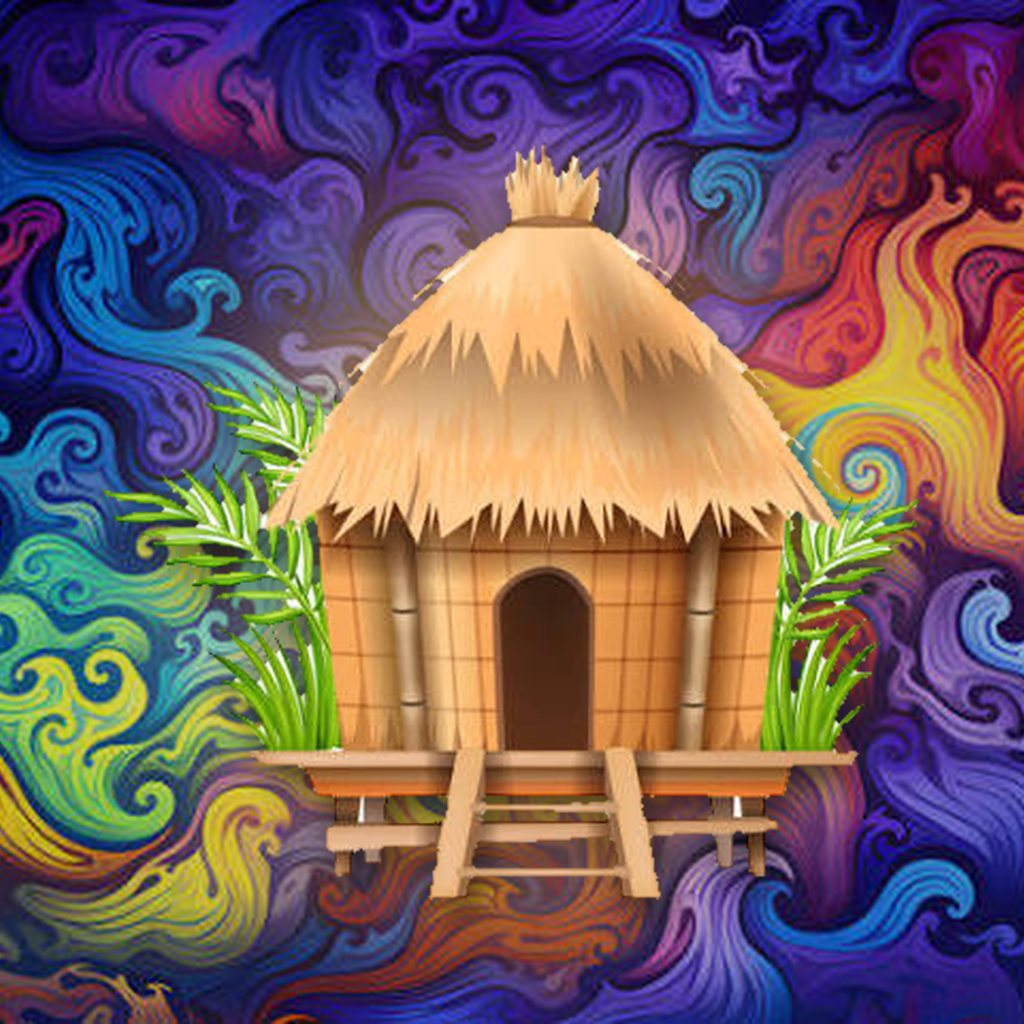
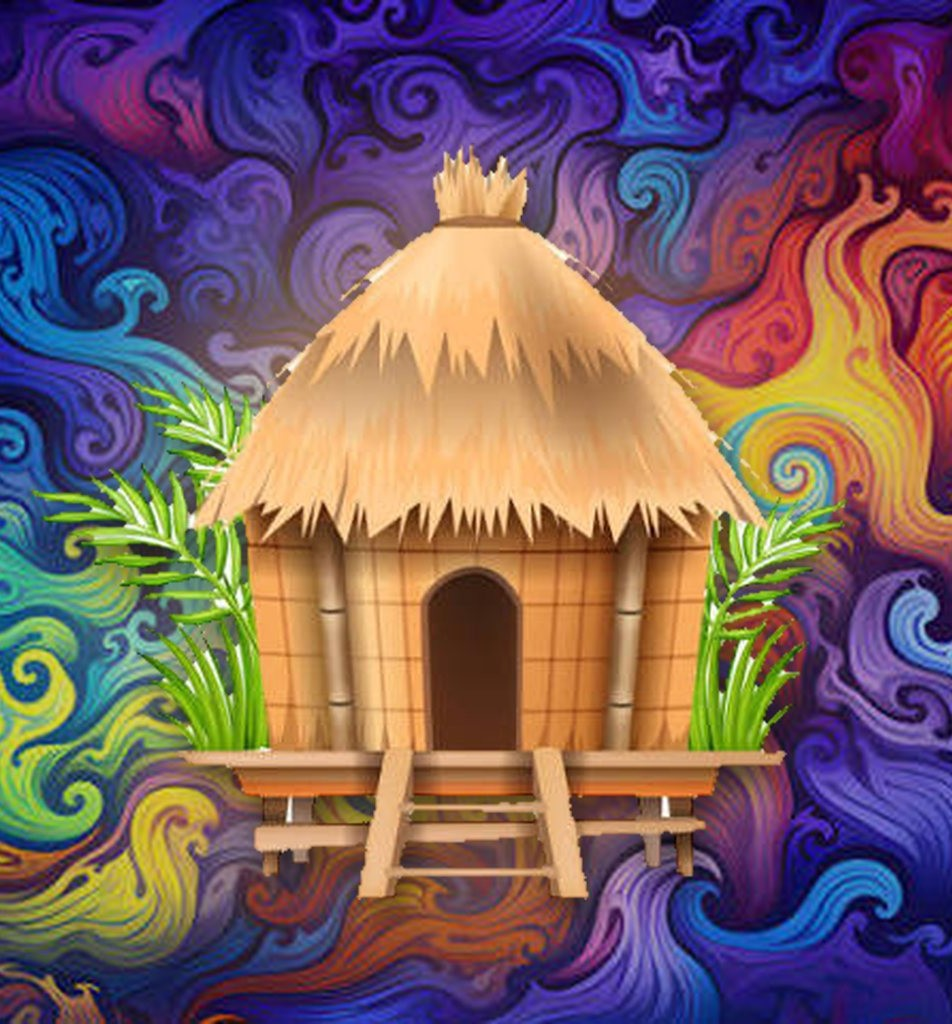
Night cost: driver MPG, gas price and food, flip cards to see the breakdown; drop venue dropdown; center the hut
- Carpool bar gets Driver MPG, $/gal (default 5.85, AAA OC avg early Nov) and a food level
- Double-tap any card (or tap the 🌙 pill) to flip it to a tickets/gas/parking/food breakdown
- Venue dropdown removed; map pins now show a removable venue chip
- Stats line shows the real venue count (132) instead of repeating the show count
- Header art re-cropped so the hut sits in the center

Claude-Session: https://claude.ai/code/session_01YDXdcZbPYMn1uhhQ8kbn5d

diff --git a/index.html b/index.html
@@ -120,7 +120,7 @@ select{min-width:0;max-width:100%;text-overflow:ellipsis}
 .links{display:flex;flex-wrap:wrap;gap:8px;margin-top:2px}
 .links a{font:600 13px var(--body);text-decoration:none;padding:6px 12px;border-radius:7px;border:1px solid var(--line);color:var(--ink)}
 /* Show Shack header: hut art fills the card, gradient title above the roof */
-header{background:#1a0f33 url(header.jpg) center 96%/auto 106% no-repeat;aspect-ratio:1/1.25;max-height:640px;padding:18px 14px 14px;align-items:stretch;justify-content:space-between;gap:0;overflow:hidden;position:relative}
+header{background:#1a0f33 url(header.jpg?v=2) center 96%/auto 106% no-repeat;aspect-ratio:1/1.25;max-height:640px;padding:18px 14px 14px;align-items:stretch;justify-content:space-between;gap:0;overflow:hidden;position:relative}
 header::before{content:"";position:absolute;inset:0 0 auto 0;height:34%;background:linear-gradient(180deg,rgba(14,8,32,.55),rgba(14,8,32,0));pointer-events:none}
 header h1.shack-title{position:relative;background:linear-gradient(90deg,#FFE66D 0%,#FFB347 22%,#FF6FA5 48%,#D08CFF 72%,#6FF0FF 100%);-webkit-background-clip:text;background-clip:text;color:transparent;-webkit-text-stroke:1.6px #170b2e;paint-order:stroke fill;filter:drop-shadow(0 3px 0 #170b2e) drop-shadow(0 0 14px rgba(10,4,24,.7));padding:0;border-radius:0;text-align:center;font-size:clamp(26px,8.4vw,58px);line-height:1;letter-spacing:1.5px;max-width:100%;padding:0 .12em;white-space:nowrap;text-wrap:nowrap;align-self:center}
 header .sub{position:relative;background:rgba(18,10,38,.74);-webkit-backdrop-filter:blur(8px);backdrop-filter:blur(8px);color:#ddd6ee;border:1px solid rgba(255,255,255,.14);border-radius:12px;padding:8px 12px;margin-top:auto}
@@ -141,7 +141,7 @@ h1 .logo{height:1.05em;width:1.05em;border-radius:22%;vertical-align:-0.12em;mar
 .links a.tix{background:var(--ink);color:var(--bg);border-color:var(--ink)}
 .sharebtn{font:600 13px var(--body);padding:6px 12px;border-radius:7px;border:1px solid var(--line);background:transparent;color:var(--ink);cursor:pointer}
 .sub .sharebtn{padding:3px 10px;font-size:12px}
-.ev.hl{outline:3px solid var(--bee);outline-offset:2px;transition:outline-color 2s}
+.card.hl .face{outline:3px solid var(--bee);outline-offset:2px;transition:outline-color 2s}
 .copybox{position:fixed;left:12px;right:12px;bottom:calc(12px + env(safe-area-inset-bottom,0px));z-index:50;background:var(--surface);border:1px solid var(--line);border-radius:10px;padding:10px;box-shadow:0 6px 24px rgba(0,0,0,.18)}
 .copybox textarea{width:100%;min-height:70px;font:13px var(--body);box-sizing:border-box}
 .copybox button{margin-top:6px}
@@ -245,6 +245,34 @@ h1 .logo{height:1.05em;width:1.05em;border-radius:22%;vertical-align:-0.12em;mar
 .bar .v{text-align:right;font-family:var(--mono);font-variant-numeric:tabular-nums;font-size:12.5px;white-space:nowrap}
 .bar .k{overflow:hidden;text-overflow:ellipsis;white-space:nowrap}
 @media (prefers-color-scheme:dark){:root:not([data-theme="light"]) .map .sea{fill:hsl(210 35% 22%)}:root:not([data-theme="light"]) .map .land{fill:hsl(230 12% 15%);stroke:hsl(210 25% 35%)}:root:not([data-theme="light"]) .map .city{fill:hsl(220 10% 70%)}:root:not([data-theme="light"]) .badge.down{color:hsl(150 60% 65%)}:root:not([data-theme="light"]) .badge.up{color:hsl(10 80% 70%)}:root:not([data-theme="light"]) .badge.sale{color:hsl(45 90% 70%)}}
+/* ---- carpool cost bar ---- */
+.costbar{flex-basis:100%;display:flex;flex-wrap:wrap;gap:8px 12px;align-items:center;padding-top:8px;margin-top:2px;border-top:1px dashed var(--line)}
+.cf{display:flex;align-items:center;gap:6px}
+.cf input{width:64px;font:500 16px var(--mono);background:var(--chip);color:var(--ink);border:0;border-radius:8px;padding:5px 8px;font-variant-numeric:tabular-nums}
+.cf select{font-size:14px}
+/* ---- flip cards ---- */
+.card{perspective:1400px;-webkit-tap-highlight-color:transparent}
+.flip{display:grid;transform-style:preserve-3d;-webkit-transform-style:preserve-3d;transition:transform .55s cubic-bezier(.2,.7,.3,1)}
+.card.flipped .flip{transform:rotateY(180deg)}
+.face{grid-area:1/1;-webkit-backface-visibility:hidden;backface-visibility:hidden;transform:rotateY(0deg)}
+.face.back{transform:rotateY(180deg);display:flex;flex-direction:column;gap:8px;border-color:var(--accent);background:var(--surface)}
+.card.flipped .front,.card:not(.flipped) .back{pointer-events:none}
+@media (prefers-reduced-motion:reduce){.flip{transition:none}}
+.facts .night{font:600 12.5px var(--mono);color:var(--ink);background:var(--chip);border:0;border-radius:999px;padding:2px 9px;cursor:pointer}
+.back .bh{display:flex;justify-content:space-between;align-items:center}
+.back .flipbtn{border:1px solid var(--line);background:transparent;color:var(--ink);border-radius:999px;width:32px;height:32px;font-size:16px;cursor:pointer}
+.back h3{font-size:15px;margin:0;color:var(--muted);font-weight:600}
+.nlist{display:flex;flex-direction:column}
+.nl{display:grid;grid-template-columns:auto 1fr auto;gap:2px 10px;align-items:baseline;padding:7px 0;border-bottom:1px dashed var(--line)}
+.nk{font-weight:600;font-size:14px;white-space:nowrap}
+.nh{font-family:var(--mono);font-size:11px;color:var(--muted);min-width:0;overflow-wrap:anywhere}
+.nv{font:600 14px var(--mono);font-variant-numeric:tabular-nums;text-align:right}
+.ntot{display:flex;align-items:baseline;gap:10px;flex-wrap:wrap;padding-top:2px}
+.ntot span:first-child{font-family:var(--mono);font-size:11px;letter-spacing:.12em;text-transform:uppercase;color:var(--muted)}
+.ntot b{font:900 30px var(--display);color:var(--accent)}
+.ntot .each{font:600 14px var(--mono);color:var(--drive)}
+.nfoot{margin:0;font-size:12px;color:var(--muted)}
+.nfoot a{color:var(--accent);font-weight:600;text-decoration:none}
 </style>
 
 <div class="wrap">
@@ -264,6 +292,11 @@ h1 .logo{height:1.05em;width:1.05em;border-radius:22%;vertical-align:-0.12em;mar
       <button type="button" class="chip" id="startEdit">Set start point</button>
       <label class="range" for="carSel"><span class="label">🚗 Carpool</span>
         <select id="carSel"><option value="1">Just me</option><option value="2">2 people</option><option value="3">3 people</option><option value="4">4 people</option><option value="5">5 people</option></select></label>
+      <div class="costbar">
+        <label class="cf" for="mpgIn"><span class="label">⛽ Driver MPG</span><input id="mpgIn" type="number" inputmode="decimal" min="5" max="150" step="1"></label>
+        <label class="cf" for="gasIn"><span class="label">$/gal</span><input id="gasIn" type="number" inputmode="decimal" min="1" max="15" step="0.05"></label>
+        <label class="cf" for="foodSel"><span class="label">🍽 Food</span><select id="foodSel"><option value="0">Skip</option><option value="15">Quick bite ~$15</option><option value="30">Sit-down ~$30</option><option value="60">Nice dinner ~$60</option></select></label>
+      </div>
     </div>
     <form class="start-form" id="startForm" hidden>
       <label for="startAddr" class="label">Your address or city</label>
@@ -314,8 +347,7 @@ h1 .logo{height:1.05em;width:1.05em;border-radius:22%;vertical-align:-0.12em;mar
     <div class="row" id="flagRow"><span class="label">Filter</span>
       <label class="range" for="sortBy"><span class="label">Sort</span>
         <select id="sortBy"><option value="date">Soonest</option><option value="drive">Closest</option><option value="price">Cheapest</option></select></label>
-      <label class="range" for="venueSel"><span class="label">Venue</span>
-        <select id="venueSel"><option value="all">All venues</option></select></label>
+      <button type="button" class="chip" id="venueChip" aria-pressed="true" hidden></button>
     </div>
   </div>
 
@@ -355,15 +387,15 @@ function nextOccurrence(r){
   const c=new Date(t);c.setDate(t.getDate()+((r.weekday-t.getDay()+7)%7));return ymd(c);
 }
 const GENRES = [["all","All"],["electronic","Electronic / house"],["hiphop","Hip-hop / R&B"],["indie","Indie / rock"],["reggae","Reggae / island"],["latin","Latin"],["pop","Pop / other"]];
-const state = {kind:"all", genre:"all", venue:"all", maxDrive:180, sort:"date", events:[], picks:[], stars:new Set(), loaded:false};
+const state = {flipped:new Set(), kind:"all", genre:"all", venue:"all", maxDrive:180, sort:"date", events:[], picks:[], stars:new Set(), loaded:false};
 try{(JSON.parse(localStorage.getItem("radar-stars")||"[]")).forEach(k=>state.stars.add(String(k)));}catch(e){}
 let starRef=null, starBusy=false, starAgain=false, starT, starCount=0;
 function skey(e){return (e.added?"p:":"e:")+e.id;}
 function saveStars(){try{localStorage.setItem("radar-stars",JSON.stringify([...state.stars]));}catch(e){} clearTimeout(starT); starT=setTimeout(flushStars,500);}
 async function flushStars(){if(!starRef)return; if(starBusy){starAgain=true;return;} starBusy=true; try{await starRef.set({ids:[...state.stars]});}catch(e){if(e&&e.code==="invalid_argument")starRef=null;} starBusy=false; if(starAgain){starAgain=false;flushStars();}}
 function updateStarChip(){const c=document.getElementById("kindRow-starred");if(c)c.textContent="★ Starred"+(starCount>0?" · "+starCount:"");}
-try{const s=JSON.parse(localStorage.getItem("radar-prefs")||"{}");Object.assign(state,{kind:s.kind||"all",genre:s.genre||"all",maxDrive:s.maxDrive||180,sort:s.sort||"date",venue:s.venue||"all",hideTBA:!!s.hideTBA,when:s.when||"any",flags:s.flags||{},car:s.car||1});}catch(e){}
-function savePrefs(){try{localStorage.setItem("radar-prefs",JSON.stringify({kind:state.kind,genre:state.genre,maxDrive:state.maxDrive,sort:state.sort,venue:state.venue,hideTBA:!!state.hideTBA,when:state.when,flags:state.flags,car:state.car}));}catch(e){}}
+try{const s=JSON.parse(localStorage.getItem("radar-prefs")||"{}");Object.assign(state,{kind:s.kind||"all",genre:s.genre||"all",maxDrive:s.maxDrive||180,sort:s.sort||"date",venue:s.venue||"all",hideTBA:!!s.hideTBA,when:s.when||"any",flags:s.flags||{},car:s.car||1,mpg:+s.mpg>0?+s.mpg:25,gas:+s.gas>0?+s.gas:5.85,food:s.food!=null?+s.food:30});}catch(e){}
+function savePrefs(){try{localStorage.setItem("radar-prefs",JSON.stringify({kind:state.kind,genre:state.genre,maxDrive:state.maxDrive,sort:state.sort,venue:state.venue,hideTBA:!!state.hideTBA,when:state.when,flags:state.flags,car:state.car,mpg:state.mpg,gas:state.gas,food:state.food}));}catch(e){}}
 
 function driveEstimate(lat,lon){
   if(!origin||typeof origin.lat!=="number"||typeof lat!=="number"||typeof lon!=="number") return null;
@@ -404,8 +436,8 @@ md.oninput=()=>{state.maxDrive=+md.value;syncDrive();savePrefs();render();};
 const tc=document.getElementById("tbaChip"); tc.setAttribute("aria-pressed",String(!!state.hideTBA));
 tc.onclick=()=>{state.hideTBA=!state.hideTBA;tc.setAttribute("aria-pressed",String(state.hideTBA));savePrefs();render();};
 sb.onchange=()=>{state.sort=sb.value;savePrefs();render();};
-const vs=document.getElementById("venueSel");
-vs.onchange=()=>{state.venue=vs.value;savePrefs();render();};
+const vChip=document.getElementById("venueChip");
+vChip.onclick=()=>{state.venue="all";savePrefs();render();};
 const sq=document.getElementById("q"), sqc=document.getElementById("qClear"); let qT;
 function norm(s){return String(s||"").normalize("NFD").replace(/[̀-ͯ]/g,"").toLowerCase();}
 function setQ(v){state.q=norm(v.trim());sqc.hidden=!v;render();}
@@ -415,17 +447,12 @@ sqc.onclick=()=>{sq.value="";setQ("");sq.focus();};
 
 function venueKey(e){return (e.venue||"")+" · "+(e.city||"");}
 function buildVenues(upcoming){
-  const counts={};upcoming.forEach(e=>{const k=venueKey(e);counts[k]=(counts[k]||0)+1;});
-  const regionOf={};upcoming.forEach(e=>{regionOf[venueKey(e)]=region(e);});
-  if(state.venue!=="all"&&!counts[state.venue]) state.venue="all";
-  let opts='<option value="all">All venues ('+upcoming.length+')</option>';
-  for(const r of REGIONS){
-    const keys=Object.keys(counts).filter(k=>regionOf[k]===r).sort((a,b)=>a.localeCompare(b));
-    if(!keys.length)continue;
-    opts+=`<optgroup label="${esc(r)}">`+keys.map(k=>`<option value="${esc(k)}">${esc(k)} (${counts[k]})</option>`).join("")+'</optgroup>';
-  }
-  vs.innerHTML=opts;
-  vs.value=state.venue;
+  const keys=new Set(upcoming.map(venueKey));
+  if(state.venue!=="all"&&!keys.has(state.venue)) state.venue="all";
+  vChip.hidden=state.venue==="all";
+  vChip.textContent=state.venue==="all"?"":"📍 "+state.venue.split(" · ")[0]+"  ✕";
+  vChip.setAttribute("aria-label","Showing one venue: "+state.venue+". Tap to show all venues");
+  return keys.size;
 }
 
 const EST=[
@@ -479,10 +506,18 @@ function tier(e){const v=String(e.venue||"");
   if(e.kind==="club"||EST[6][0].test(v))return "Mid-size (1–3k)";
   return "Other";}
 const PARK={"Festival":40,"Arena / stadium":35,"Amphitheater":25,"Theater / arts hall":20,"Mid-size (1–3k)":15,"Comedy club":10,"Small / DIY":5,"Other":15};
-const GAS=5.00, MPG=25;
-function nightCost(e,pi){if(!e._drive||pi.sold||pi.none||pi.lo==null)return null;
-  const gas=e._drive.miles*2/MPG*GAS, park=e.kind==="openmic"?0:(PARK[tier(e)]??15), n=state.car||1;
-  const tix=pi.lo; return {total:Math.round(tix+gas+park), each:Math.round(tix+(gas+park)/n), n};}
+// Gas default = AAA Orange County regular average, early Nov 2026 (~$5.83). Food = typical SoCal per-person spend incl. tax & tip.
+function nightCost(e,pi){
+  const n=state.car||1, mpg=state.mpg||25, gal=state.gas||5.85, food=state.food??30;
+  const tixEach = pi.sold||pi.none||pi.lo==null ? null : pi.lo;
+  const miles = e._drive ? e._drive.miles*2 : null;
+  const gas = miles!=null ? miles/mpg*gal : null;
+  const park = e._drive ? (e.kind==="openmic"?0:(PARK[tier(e)]??15)) : null;
+  const eat = food*n;
+  const total = (tixEach??0)*n + (gas??0) + (park??0) + eat;
+  return {n,mpg,gal,food,tixEach,tixEst:!!pi.est,miles,gas,park,eat,total:Math.round(total),each:Math.round(total/n),
+    partial: tixEach==null || gas==null};
+}
 function ageOf(e){if(e.ages)return e.ages;const t=[e.title,e.artists,e.note,e.priceNote].join(" ");
   if(/21\s*\+/.test(t))return "21+";if(/18\s*\+/.test(t))return "18+";if(/all[- ]ages/i.test(t))return "all";return null;}
 function likelyAllAges(e){const a=ageOf(e);if(a)return a==="all";return e.kind==="theater"||e.kind==="openmic"||CONS.has(e.kind)||(e.kind==="concert"&&/bowl|amphitheat|arena|center|forum|theat|hall|civic|stadium|dome/i.test(e.venue||"")&&!/house of blues|belly up|coach house|casbah|alex|viper|troubadour|whisky|pappy/i.test(e.venue||""));}
@@ -517,7 +552,7 @@ function render(){
     .filter(e=>e.start&&(e.end||e.start)>=today);
   const upcoming=evs.length;
   starCount=evs.filter(e=>state.stars.has(skey(e))).length; updateStarChip();
-  buildVenues(evs);
+  const venueCount=buildVenues(evs);
   const qw = state.q ? state.q.split(/\s+/) : null;
   evs=evs.filter(e=>!qw||(h=>qw.every(w=>h.includes(w)))(norm([e.title,e.artists,e.venue,e.city].join(" "))))
     .filter(e=>state.venue==="all"||venueKey(e)===state.venue)
@@ -536,7 +571,7 @@ function render(){
   evs.sort((a,b)=> state.sort==="drive" ? ((a._drive?.mins??1e9)-(b._drive?.mins??1e9)) || a.start.localeCompare(b.start)
      : state.sort==="price" ? (price(a)-price(b)) || a.start.localeCompare(b.start)
      : a.start.localeCompare(b.start) || (a._drive?.mins??1e9)-(b._drive?.mins??1e9));
-  document.getElementById("count").textContent = evs.length+" of "+upcoming+" upcoming";
+  document.getElementById("count").textContent = evs.length+" of "+upcoming+" shows · "+venueCount+" venues";
   updateAlertBar();
   if(state.view==="map"){renderMap(evs);return;}
   if(state.view==="ins"){renderInsights();return;}
@@ -571,7 +606,7 @@ function render(){
     else priceHtml=`<span class="price">From ${$r(pi.lo)}</span><span class="pn">cheapest seat</span>`;
     if(!pi.est&&!pi.sold&&!pi.free&&!pi.none&&e.priceAsOf) priceHtml=priceHtml.replace(/<\/span>$/,` · checked ${fmtShort(e.priceAsOf)}</span>`);
     const nc=nightCost(e,pi), lb=leaveBy(e);
-    const nightHtml = nc ? `<span class="night">🌙 Night ≈ $${nc.total}${nc.n>1?` · $${nc.each} each w/ ${nc.n}`:""}</span>` : "";
+    const nightHtml = `<button type="button" class="night" data-flip="1">🌙 Night ≈ $${nc.n>1?nc.each+" each":nc.total}${nc.partial?"+":""} ↻</button>`;
     const leaveHtml = lb ? `<span class="leave">Leave by ${lb}</span>` : "";
     const al = alertOf(e).map(a=>`<span class="badge ${a.c}">${a.t}</span>`).join("");
     const ag = ageOf(e); const extraTags = (isSmall(e)?'<span class="tag local">🏠 Small &amp; local</span>':"")+(ag?`<span class="tag age">${ag==="all"?"All ages":ag}</span>`:"")+(transitOf(e)?`<span class="tag transit">🌱 ${transitOf(e)}</span>`:"");
@@ -595,7 +630,8 @@ function render(){
     const lc=(pv!=null&&!pi.sold)?band(pv,P_STEPS):"transparent";
     const rc=e._drive?band(e._drive.mins,D_STEPS):"transparent";
     const canRm = isPin && (amOwner || (myUid && e.createdBy===myUid));
-    html+=`<article id="${hid(e)}" class="ev${isPin?" pick":""}" style="--lc:${lc};--rc:${rc}">
+    const fl=state.flipped.has(hid(e));
+    html+=`<article id="${hid(e)}" class="card${fl?" flipped":""}"><div class="flip"><div class="ev face front${isPin?" pick":""}" style="--lc:${lc};--rc:${rc}"${fl?' aria-hidden="true"':""}>
       <div class="stub"><span class="dow">${dow}</span><span class="day">${d.getDate()}</span><span class="mon">${mon}</span>${thru}</div>
       <div class="body">
         ${isPin?`<span class="who">＋ Luke's pick</span>`:""}
@@ -610,12 +646,32 @@ function render(){
         ${volHtml(e)}
         <div class="links">${tix?`<a class="tix" href="${esc(tix)}" target="_blank" rel="noopener">${tixLabel}</a>`:""}${listen}<a href="${maps}" target="_blank" rel="noopener">Directions</a>${e.start?`<a href="${esc(calLink(e))}" target="_blank" rel="noopener">📅 Calendar</a>`:""}<a href="${esc(eatLink(e))}" target="_blank" rel="noopener">🍜 Eat nearby</a><button type="button" class="share" data-share="${esc(skey(e))}">📤 Share</button>${canRm?`<button type="button" class="rm" data-rm="${esc(e.id)}">Remove</button>`:""}</div>
       </div>
-      <div class="sides"><div class="side l"><span class="sl">Price</span>${priceHtml}</div><div class="side r"><span class="sl">Drive</span>${drv}</div></div></article>`;
+      <div class="sides"><div class="side l"><span class="sl">Price</span>${priceHtml}</div><div class="side r"><span class="sl">Drive</span>${drv}</div></div></div>
+      ${backHtml(e,nc,fl)}</div></article>`;
   }
   list.innerHTML=html;
   jumpToHash();
   const sa=document.getElementById("spAgain"),sd=document.getElementById("spDone");
   if(sa)sa.onclick=surpriseMe; if(sd)sd.onclick=()=>{state.surprise=null;render();};
+}
+function backHtml(e,nc,fl){
+  const $=v=>"$"+Math.round(v), who=nc.n>1?`${nc.n} people`:"just you";
+  const line=(ic,k,how,v)=>`<div class="nl"><span class="nk">${ic} ${k}</span><span class="nh">${how}</span><span class="nv">${v}</span></div>`;
+  const tix = nc.tixEach==null ? line("🎟","Tickets","price not listed yet","?")
+    : line("🎟","Tickets",`${nc.tixEach===0?"free":(nc.tixEst?"≈":"")+$(nc.tixEach)}${nc.n>1?" × "+nc.n:""}${nc.tixEst?" · typical, not listed":""}`,$(nc.tixEach*nc.n));
+  const gas = nc.gas==null ? line("⛽","Gas","set a start point","?")
+    : line("⛽","Gas",`${nc.miles} mi round trip ÷ ${nc.mpg} mpg × $${nc.gal.toFixed(2)}`,$(nc.gas));
+  const park = nc.park==null ? line("🅿","Parking","set a start point","?")
+    : line("🅿","Parking",nc.park===0?"usually free":`typical for ${tier(e).toLowerCase()}`,$(nc.park));
+  const food = line("🍽","Food",nc.food?`${$(nc.food)} × ${nc.n} · typical SoCal spend`:"skipped",$(nc.eat));
+  return `<div class="ev face back"${fl?"":' aria-hidden="true"'}>
+    <div class="bh"><span class="sl">🌙 Night cost · ${who}</span><button type="button" class="flipbtn" data-flip="1" aria-label="Flip back">↩</button></div>
+    <h3>${esc(e.title)}</h3>
+    <div class="nlist">${tix}${gas}${park}${food}</div>
+    <div class="ntot"><span>Total${nc.partial?" so far":""}</span><b>${$(nc.total)}${nc.partial?"+":""}</b>${nc.n>1?`<span class="each">${$(nc.each)}${nc.partial?"+":""} each</span>`:""}</div>
+    <p class="nfoot">Estimates. Gas ${nc.gas!=null?"splits":"would split"} across the car; food & tickets are per person. Change MPG, gas price and food up top by Carpool. <a href="${esc(eatLink(e))}" target="_blank" rel="noopener">🍜 See food near the venue ↗</a></p>
+    <p class="nfoot">Double-tap the card to flip back.</p>
+  </div>`;
 }
 function surpriseMe(){
   state.surprise=null; state.view="list"; [vL,vM,vI].forEach(b=>b.setAttribute("aria-pressed",String(b===vL)));
@@ -634,11 +690,41 @@ function surpriseMe(){
   render();window.scrollTo({top:document.getElementById("viewBar").offsetTop-8,behavior:"smooth"});
 }
 
+/* ---- flip a card to its night-cost back: double-tap (or tap the 🌙 pill / ↩) ---- */
+function flipCard(card){if(!card)return;const on=!card.classList.contains("flipped");
+  card.classList.toggle("flipped",on);on?state.flipped.add(card.id):state.flipped.delete(card.id);
+  const f=card.querySelector(".front"),b=card.querySelector(".back");
+  if(f)f.setAttribute("aria-hidden",String(on)); if(b)b.setAttribute("aria-hidden",String(!on));
+  try{window.getSelection().removeAllRanges();}catch(e){}}
+const INTERACTIVE="a,button,select,input,summary,textarea,label";
+let lastTap={t:0,x:0,y:0,card:null}, lastFlipAt=0;
+const listEl=document.getElementById("list");
+listEl.addEventListener("click",ev=>{const b=ev.target.closest("[data-flip]");if(!b)return;flipCard(b.closest(".card"));lastFlipAt=Date.now();});
+listEl.addEventListener("pointerup",ev=>{
+  if(ev.pointerType==="mouse")return;
+  const card=ev.target.closest(".card"); if(!card||ev.target.closest(INTERACTIVE)){lastTap.t=0;return;}
+  const now=Date.now();
+  if(lastTap.card===card&&now-lastTap.t<350&&Math.hypot(ev.clientX-lastTap.x,ev.clientY-lastTap.y)<30){
+    lastTap.t=0;lastFlipAt=now;ev.preventDefault();flipCard(card);return;}
+  lastTap={t:now,x:ev.clientX,y:ev.clientY,card};
+});
+listEl.addEventListener("dblclick",ev=>{
+  if(Date.now()-lastFlipAt<600)return;
+  const card=ev.target.closest(".card"); if(!card||ev.target.closest(INTERACTIVE))return;
+  flipCard(card);
+});
+
 /* ---- views: list / map / insights ---- */
 const vL=document.getElementById("vList"),vM=document.getElementById("vMap"),vI=document.getElementById("vIns");
 function setView(v){state.view=v;[vL,vM,vI].forEach(b=>b.setAttribute("aria-pressed",String(b.id===({list:"vList",map:"vMap",ins:"vIns"})[v])));render();}
 vL.onclick=()=>{state.surprise=null;setView("list");};document.getElementById("vSurprise").onclick=()=>surpriseMe();vM.onclick=()=>setView("map");vI.onclick=()=>setView("ins");
 const carSel=document.getElementById("carSel");carSel.value=String(state.car||1);carSel.onchange=()=>{state.car=+carSel.value;savePrefs();render();};
+const mpgIn=document.getElementById("mpgIn"),gasIn=document.getElementById("gasIn"),foodSel=document.getElementById("foodSel");
+mpgIn.value=state.mpg||25;gasIn.value=(state.gas||5.85).toFixed(2);foodSel.value=String(state.food??30);
+let costT;function costChange(){clearTimeout(costT);costT=setTimeout(()=>{const m=+mpgIn.value,g=+gasIn.value;
+  if(m>=5&&m<=150)state.mpg=m; if(g>=1&&g<=15)state.gas=g; state.food=+foodSel.value; savePrefs();render();},250);}
+mpgIn.oninput=costChange;gasIn.oninput=costChange;foodSel.onchange=costChange;
+[mpgIn,gasIn].forEach(i=>i.addEventListener("blur",()=>{mpgIn.value=state.mpg;gasIn.value=state.gas.toFixed(2);}));
 /* alerts on starred shows */
 function updateAlertBar(){const bar=document.getElementById("alertBar");
   const hits=[...state.events,...state.picks.map(p=>({...p,added:true}))].filter(e=>state.stars.has(skey(e))&&alertOf(e).length&&(e.end||e.start)>=todayStr());

diff --git a/sw.js b/sw.js
@@ -1,5 +1,5 @@
 // The Show Shack service worker: app shell cached; show list is network-first so it's always fresh when online.
-const CACHE = "shack-v4";
+const CACHE = "shack-v5";
 const SHELL = ["./", "index.html", "manifest.webmanifest", "icon-192.png", "icon-512.png", "apple-touch-icon.png", "header.jpg"];
 self.addEventListener("install", e => { e.waitUntil(caches.open(CACHE).then(c => c.addAll(SHELL)).then(() => self.skipWaiting())); });
 self.addEventListener("activate", e => { e.waitUntil(caches.keys().then(ks => Promise.all(ks.filter(k => k !== CACHE).map(k => caches.delete(k)))).then(() => self.clients.claim())); });
